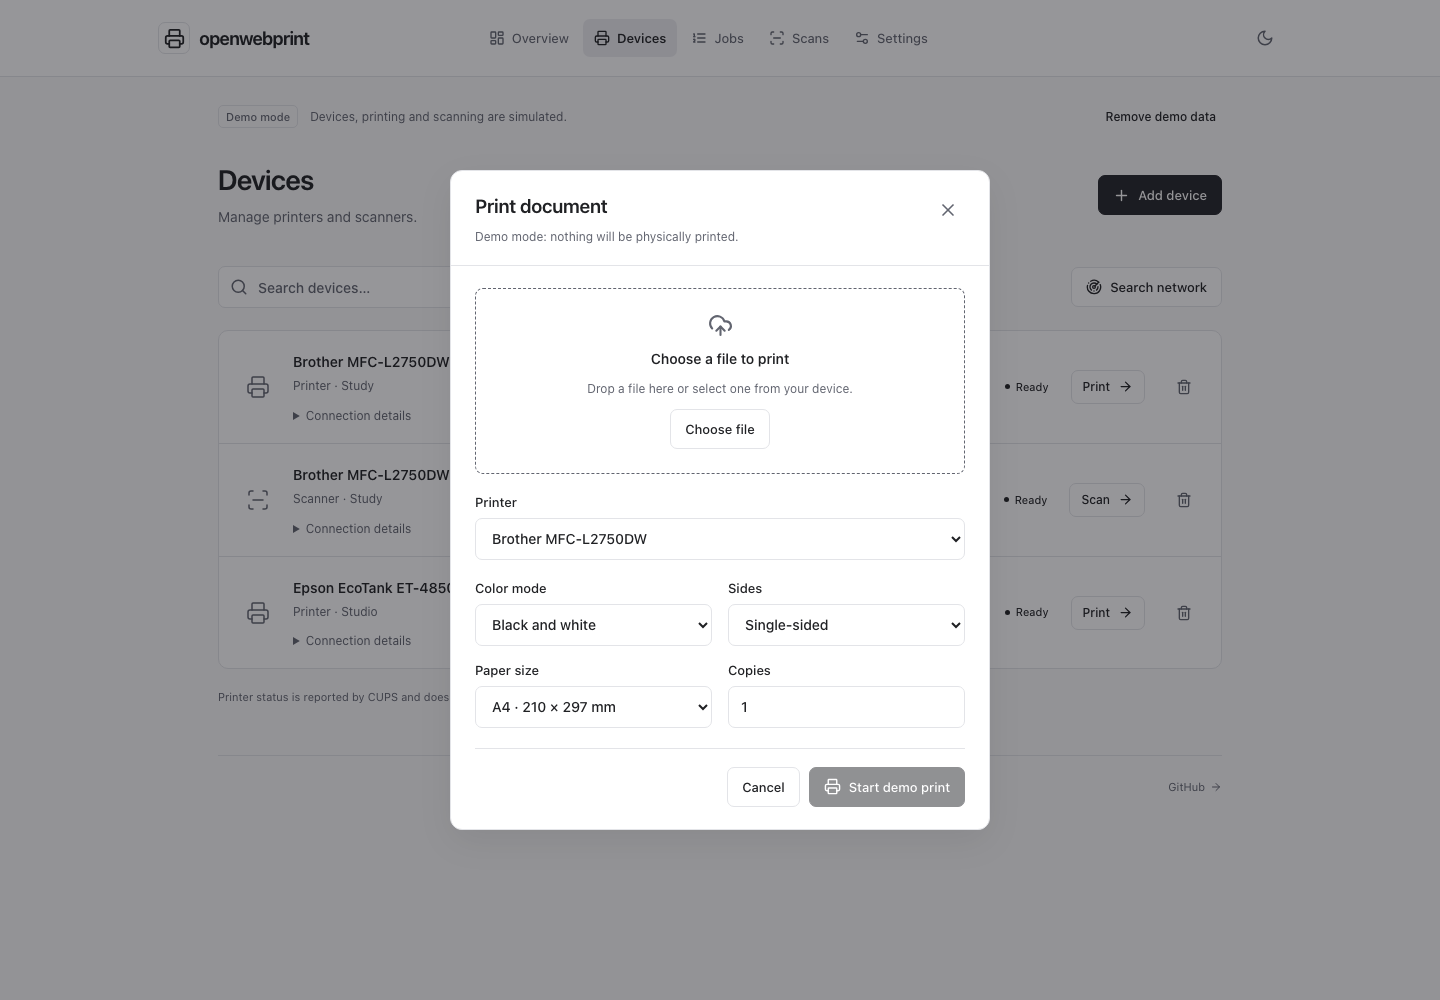
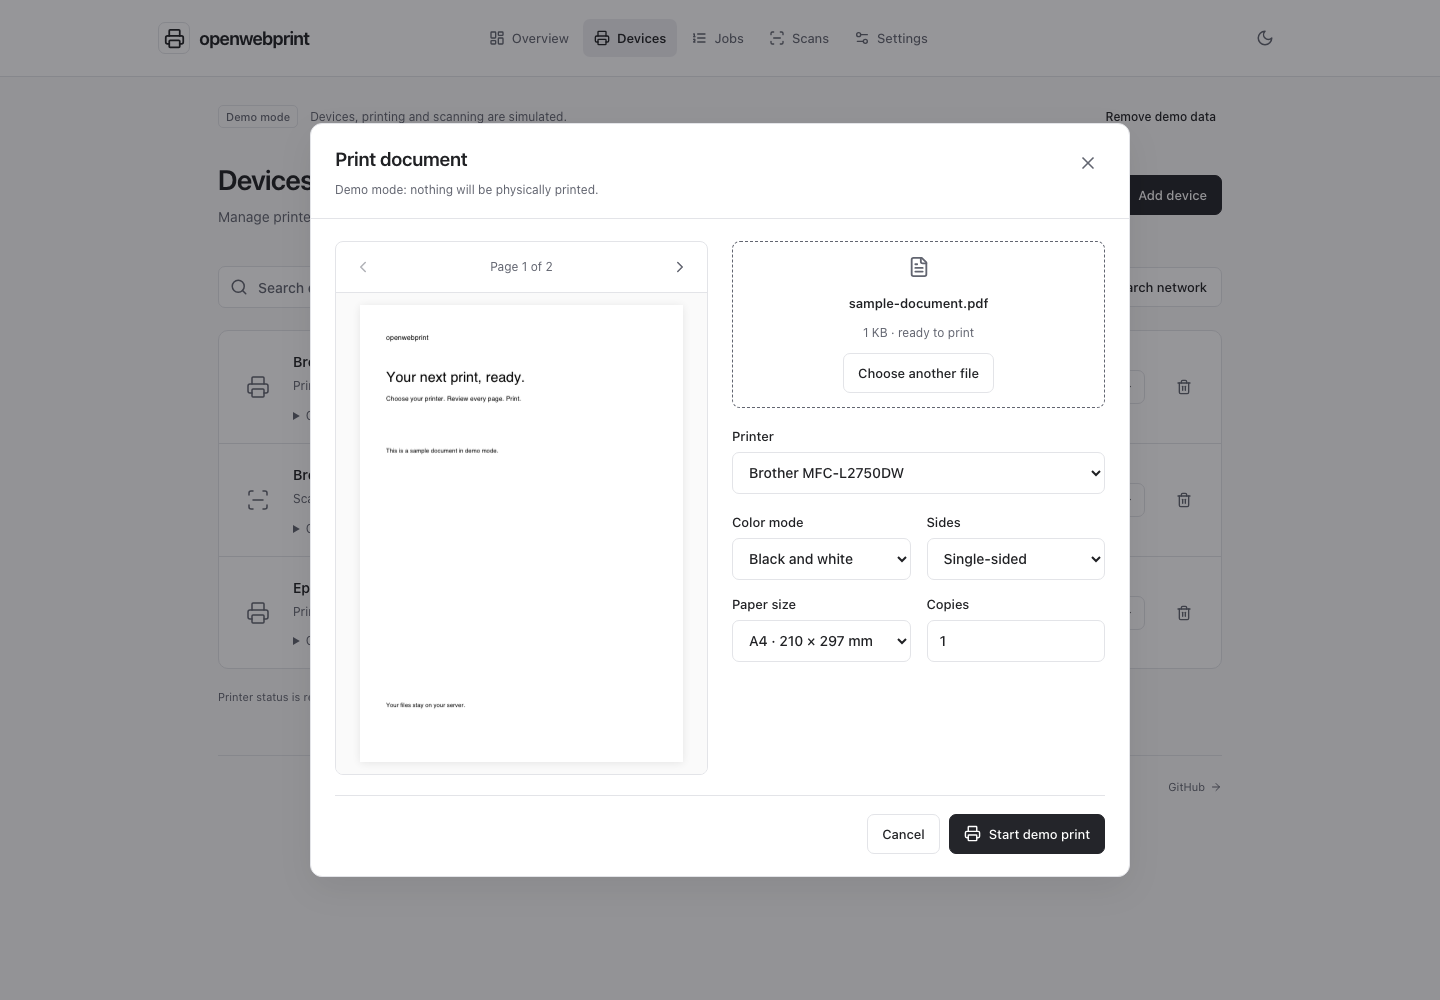
docs: refresh README gallery with paginated print preview

diff --git a/README.md b/README.md
@@ -42,9 +42,9 @@ Check device status, start a print or scan, and follow recent jobs from one page
 
 ### Print from your browser
 
-![Print dialog with document upload, Brother printer selection, and print options](docs/images/printing.png)
+![Paginated document preview beside Brother printer selection and print options](docs/images/printing.png)
 
-Upload a PDF or image, choose a printer, and set color, sides, paper size, and copies. Available options follow the selected printer's capabilities.
+Review a PDF or image before printing, browse its pages, and set printer, color, sides, paper size, and copies. Open the retained document again from Jobs after submission.
 
 ### Preview and download a scan
 
